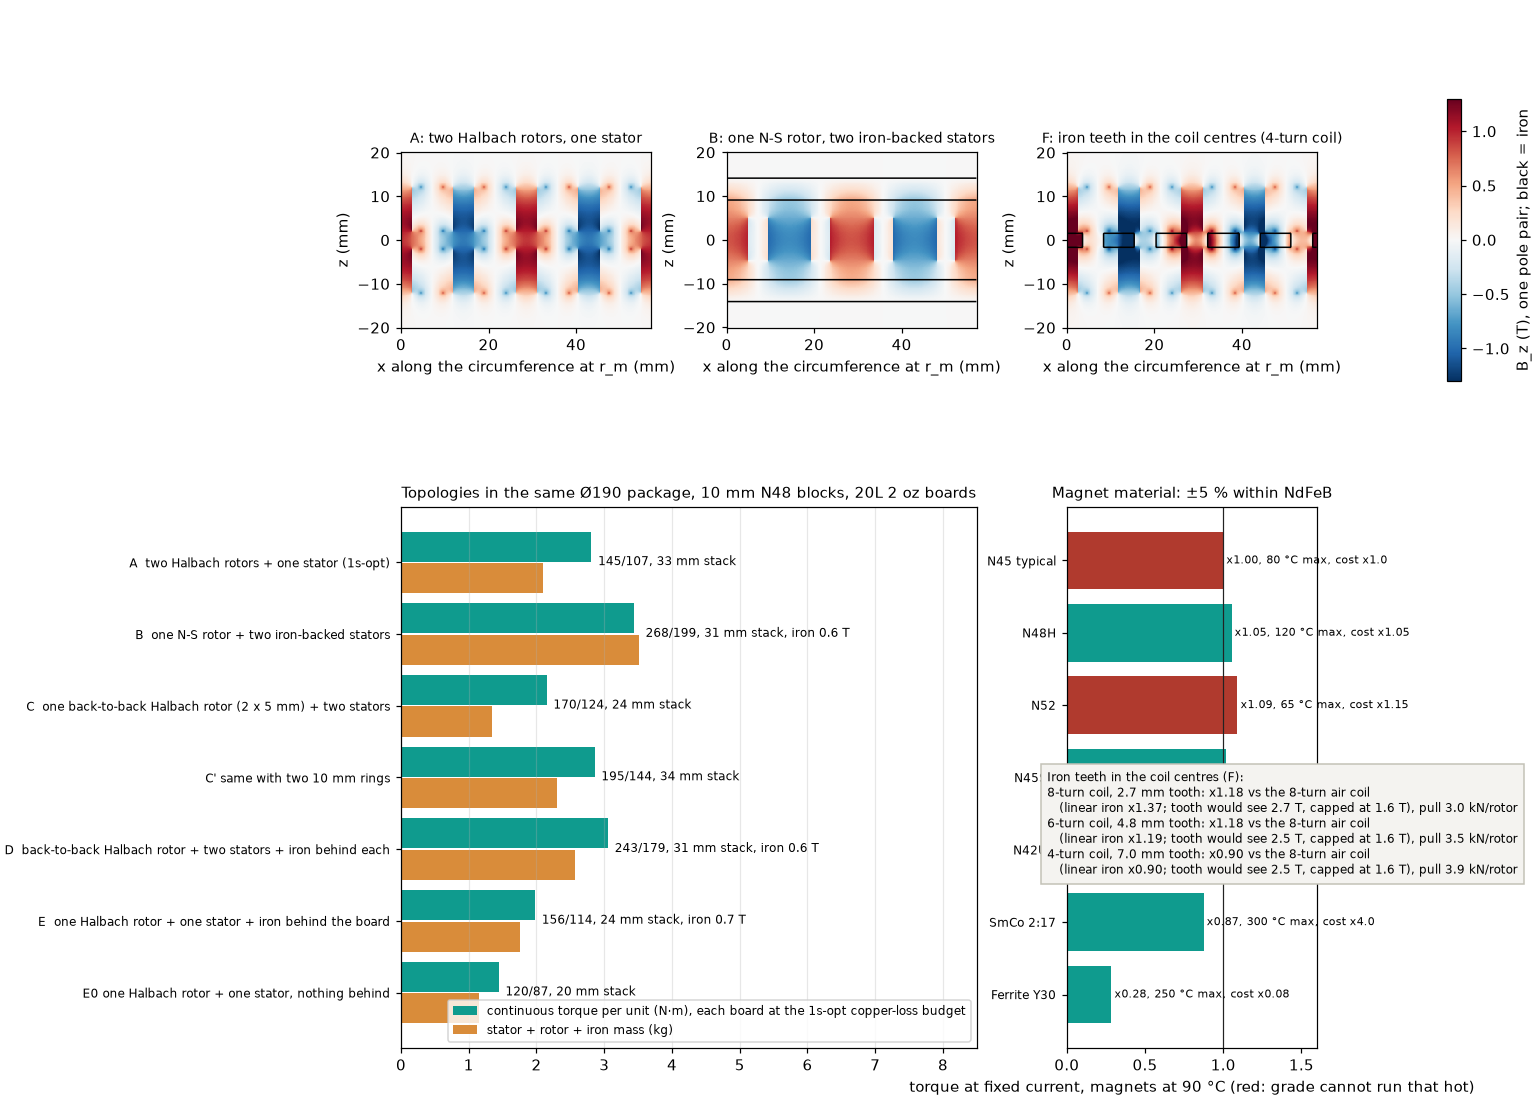
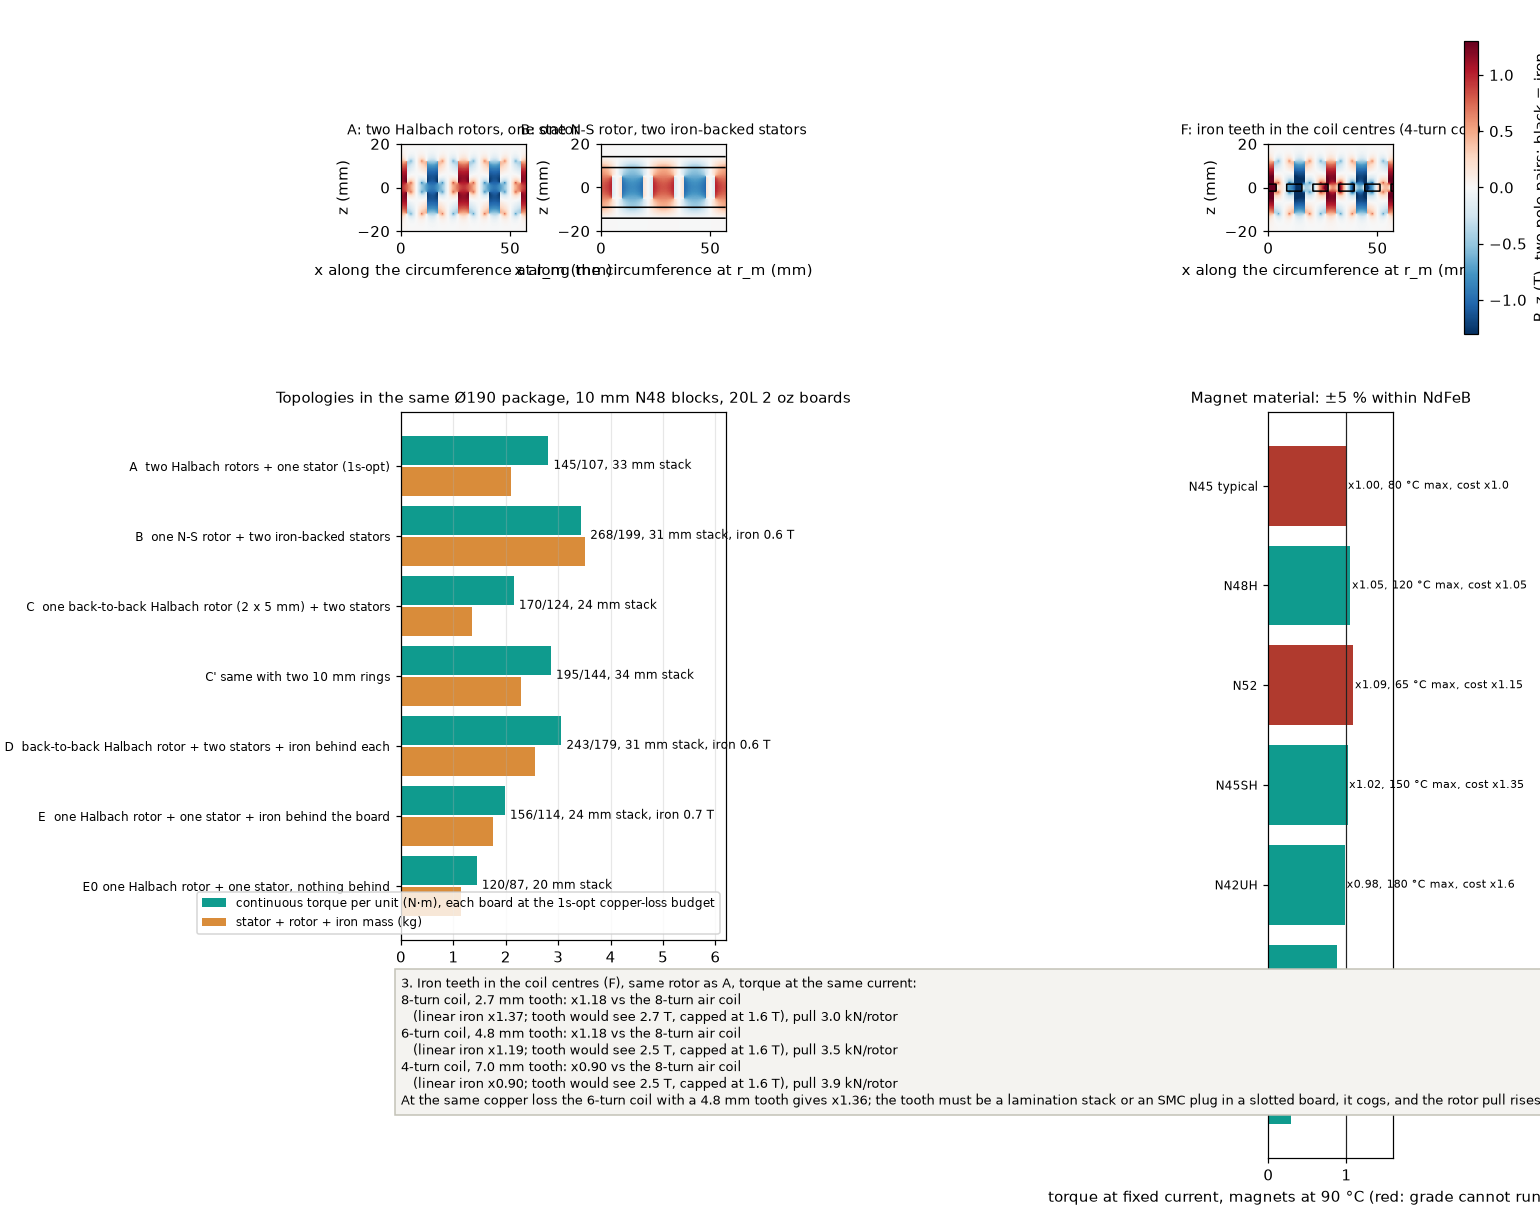
Round 13b: topology figure layout
Claude-Session: https://claude.ai/code/session_01RhbB1sts16H7Chkqp6ycKd

diff --git a/analysis/topology_compare.py b/analysis/topology_compare.py
@@ -368,8 +368,8 @@ out = dict(model=dict(grid_mm=H * 1e3, lam_mm=LAM * 1e3, r_m_mm=R_M * 1e3, coil_
 json.dump(out, open(os.path.join(ROOT, "hw", "stator", "topology_compare.json"), "w"), indent=1)
 
 # ---- figure ----
-fig = plt.figure(figsize=(14, 10), constrained_layout=True)
-gs = fig.add_gridspec(2, 3, height_ratios=(1.0, 1.15))
+fig = plt.figure(figsize=(14, 11), constrained_layout=True)
+gs = fig.add_gridspec(3, 3, height_ratios=(0.9, 1.3, 0.45))
 maps = [("A  two Halbach rotors, one stator (1s-opt, baseline)", "A: two Halbach rotors, one stator"),
         ("B  one N-S rotor, two iron-backed stators", "B: one N-S rotor, two iron-backed stators"),
         ("F  same with a laminated tooth 7.1 mm wide through the board", "F: iron teeth in the coil centres (4-turn coil)")]
@@ -384,16 +384,16 @@ for i, (key, title) in enumerate(maps):
         ax.contour(x[sel] * 1e3, z * 1e3, (mu[sel] > 1.5).T.astype(float), levels=[0.5], colors="k", linewidths=1.0)
     ax.set_title(title, fontsize=9); ax.set_xlabel("x along the circumference at r_m (mm)"); ax.set_ylabel("z (mm)")
     ax.set_aspect("equal")
-fig.colorbar(im, ax=fig.axes[:3], shrink=0.6, label="B_z (T), one pole pair; black = iron")
+fig.colorbar(im, ax=fig.axes[:3], shrink=0.8, pad=0.01, label="B_z (T), two pole pairs; black = iron")
 ax = fig.add_subplot(gs[1, 0:2])
 names = [u["name"] for u in UNITS]; y = np.arange(len(UNITS))
 ax.barh(y - 0.22, [u["T_cont"] for u in UNITS], 0.42, color="#0f9b8e", label="continuous torque per unit (N·m), each board at the 1s-opt copper-loss budget")
 ax.barh(y + 0.22, [u["mass_kg"] for u in UNITS], 0.42, color="#d98c3a", label="stator + rotor + iron mass (kg)")
 for i, u in enumerate(UNITS):
     ax.text(max(u["T_cont"], u["mass_kg"]) + 0.1, i, f"${u['cost20']:.0f} / ${u['cost100']:.0f}, {u['stack_mm']:.0f} mm stack" + (f", iron {u['B_iron']:.1f} T" if u["iron_kg"] else ""), va="center", fontsize=8)
-ax.set_yticks(y); ax.set_yticklabels(names, fontsize=8); ax.invert_yaxis(); ax.set_xlim(0, 8.5); ax.grid(axis="x", alpha=0.3); ax.legend(fontsize=8, loc="lower right")
+ax.set_yticks(y); ax.set_yticklabels(names, fontsize=8); ax.invert_yaxis(); ax.set_xlim(0, 6.2); ax.grid(axis="x", alpha=0.3); ax.legend(fontsize=8, loc="lower right")
 ax.set_title("Topologies in the same Ø190 package, 10 mm N48 blocks, 20L 2 oz boards", fontsize=10)
-ax = fig.add_subplot(gs[1, 2])
+ax = fig.add_subplot(gs[1:, 2])
 gr = grade_rows
 ax.barh(np.arange(len(gr)), [g["torque_ratio"] for g in gr], color=["#0f9b8e" if g["usable"] else "#b03a2e" for g in gr])
 ax.set_yticks(np.arange(len(gr))); ax.set_yticklabels([g["grade"].split(" (")[0] for g in gr], fontsize=8); ax.invert_yaxis()
@@ -403,6 +403,9 @@ for i, g in enumerate(gr):
 ax.set_xlim(0, 1.6); ax.set_xlabel(f"torque at fixed current, magnets at {T_MAG:.0f} °C (red: grade cannot run that hot)")
 ax.set_title("Magnet material: ±5 % within NdFeB", fontsize=10)
 tl = "\n".join(f"{n_t}-turn coil, {t['opening_mm']:.1f} mm tooth: x{t['gain_vs_8t_air']:.2f} vs the 8-turn air coil\n   (linear iron x{t['tooth_linear']/base:.2f}; tooth would see {t['B_tooth']:.1f} T, capped at {B_CAP} T), pull {t['attraction_N']/1e3:.1f} kN/rotor" for n_t, t in teeth.items())
-fig.text(0.68, 0.30, "Iron teeth in the coil centres (F):\n" + tl, fontsize=8, va="top", bbox=dict(fc="#f4f3f0", ec="#c3c2b7"))
+axt = fig.add_subplot(gs[2, 0:2]); axt.axis("off")
+axt.text(0.0, 1.0, "3. Iron teeth in the coil centres (F), same rotor as A, torque at the same current:\n" + tl +
+         f"\nAt the same copper loss the 6-turn coil with a 4.8 mm tooth gives x{teeth[6]['gain_vs_8t_air'] / math.sqrt(teeth[6]['copper_ratio']):.2f}; the tooth must be a lamination stack or an SMC plug in a slotted board, it cogs, and the rotor pull rises from {A['attraction_N']/1e3:.1f} kN.",
+         fontsize=8.5, va="top", ha="left", transform=axt.transAxes, bbox=dict(fc="#f4f3f0", ec="#c3c2b7"))
 fig.savefig(os.path.join(ROOT, "docs", "design", "actuator", "topology-compare.png"), dpi=110)
 print("wrote topology-compare.png")
